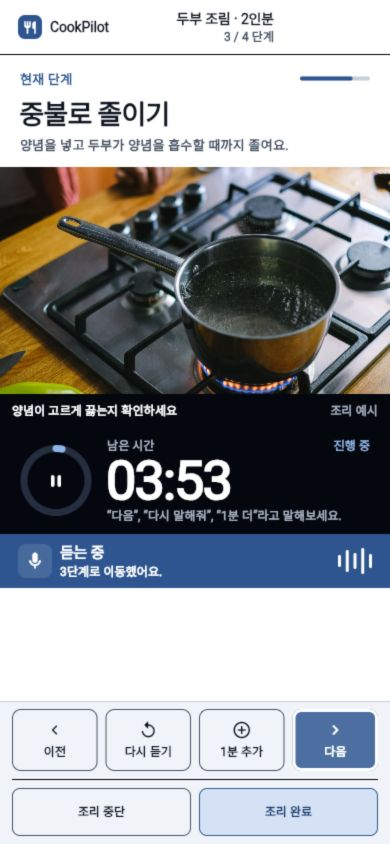
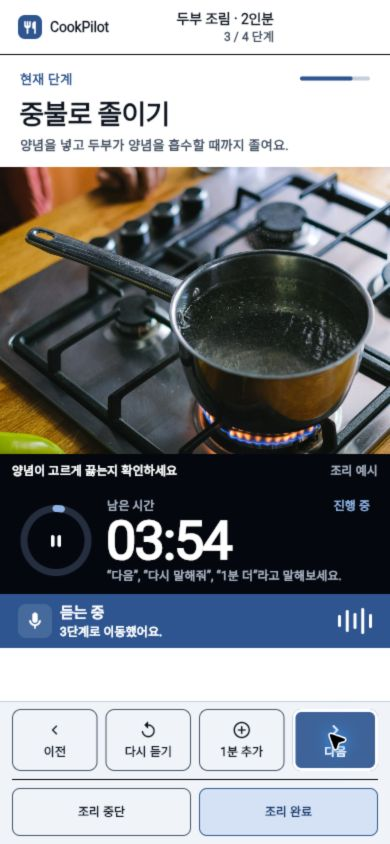
style(design): FINDING-001 — 조리 미디어가 화면을 채우도록 조정

diff --git a/lib/features/cooking/presentation/cooking_screen.dart b/lib/features/cooking/presentation/cooking_screen.dart
@@ -79,6 +79,8 @@ final class _CookingScreenState extends State<CookingScreen>
             ? 104.0
             : compact
             ? 190.0
+            : screenHeight >= 800
+            ? 320.0
             : 260.0;
         final timerStatus = widget.controller.timer.status;
 